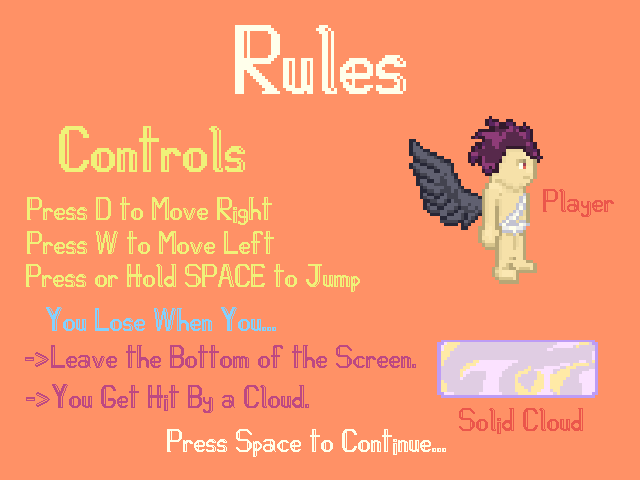
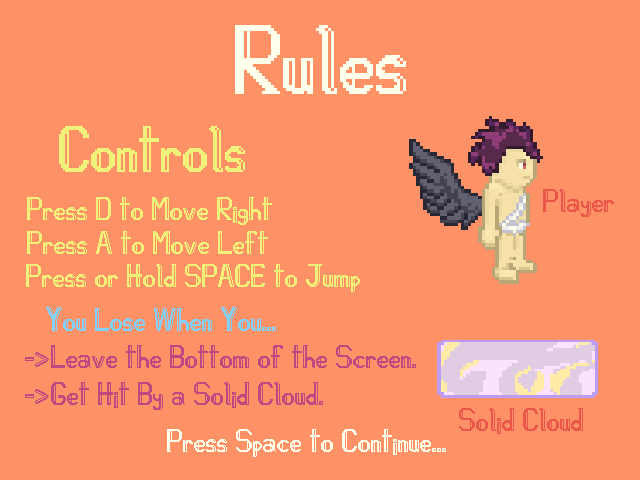
fixed score colorway + main header comment

Changed region(s): [[0.0312, 0.7812, 0.5, 0.875], [0.1562, 0.4688, 0.4375, 0.5312]]

diff --git a/src/main.js b/src/main.js
@@ -1,3 +1,26 @@
+/********************************************************************************************************************************************
+ * Name: Brent Chou
+ * Game Title: Angel's Ascent
+ * Approx. Hours Spent: 27 Hours
+ * 
+ * Creative Tilt Justification
+ * 
+ * Technical Side:
+ * I learned a lot more about CSS and HTML to design a website that looks cleaner and more unique. For example,
+ * the borders we used in Rocket Patrol were only effective because the border was white and the ships were white.
+ * In reality, if I had kept white borders, you would see my sprites overlap the border and it would look odd. With CSS
+ * borders, I was still able to have a nice touch to my canvas while avoiding overlapping sprites. Additionally, I did not
+ * learn how to create a High Score or even save the current score to my Game Over Screen during the Rocket Patrol Mod
+ * assignment. For this project, I was able to research and fully accomplish both of those things. I also learned how to
+ * work with player gravity and arcade physics which was really cool and helpful to introducing my jump mechanic.
+ * 
+ * Artistic Side;
+ * I think the amount of effort that I put into designing this project goes without saying. I designed every single tilesprite
+ * and background myself. All used sprites and animations were also created by me. I created a color palette so that every aspect of
+ * my game would be cohesive with my theme. Every color used falls exactly within my chosen color palette except for the player sprite
+ * which is a constrasting color so that it sticks out more and is easier to see.
+ ********************************************************************************************************************************************/
+
 // global game options
 let gameOptions = {
     platformStartSpeed: 350,

diff --git a/index.html b/index.html
@@ -6,10 +6,10 @@
     <meta name="viewport" content="width=device-width, initial-scale=1.0">
     <title>Endless Runner</title>
     <h1 style="color:lightyellow">Angel's Ascent</h1>
-    <h2 style="color:lightcyan">Angel's Ascent Controls: Click or Hold SPACE to JUMP, Press W to Move Left, Press D to Move Right</h2>
+    <h2 style="color:lightcyan">Angel's Ascent Controls: Click or Hold SPACE to JUMP, Press A to Move Left, Press D to Move Right</h2>
     <h3 style="color:lightcyan">Story:</h3>
     <p style="color:lightcyan">You are a dark angel desperate to reclaim your heavenly white wings. To you, it sounded like an easy enough task to fly back to the Aeons above, 
-        but little did you know you will have to dodge a rainfall of falling solid clouds that are hurdling towards you!
+        but little did you know you will have to dodge a rainfall of solid clouds that are hurdling towards you!
     </p>
     <style>
         h1 

diff --git a/src/scenes/Play.js b/src/scenes/Play.js
@@ -83,11 +83,11 @@ class Play extends Phaser.Scene {
             this.platform.destroy();
         })
  
-        let scoreConfig = {
+        let playConfig = {
             fontFamily: 'Courier',
             fontSize: '28px',
-            backgroundColor: '#F3B141',
-            color: "#843605",
+            backgroundColor: '#FF886F',
+            color: "#FFE56F",
             align: 'left',
             padding: {
                 top: 5,
@@ -96,7 +96,7 @@ class Play extends Phaser.Scene {
             fixedWidth: 100
         }
 
-        this.scoreText = this.add.text(game.config.width / 2 - 300, game.config.height - 465, score, scoreConfig).setScrollFactor(0);
+        this.scoreText = this.add.text(game.config.width / 2 - 300, game.config.height - 465, score, playConfig).setOrigin(0, 0);
 
     }
 
